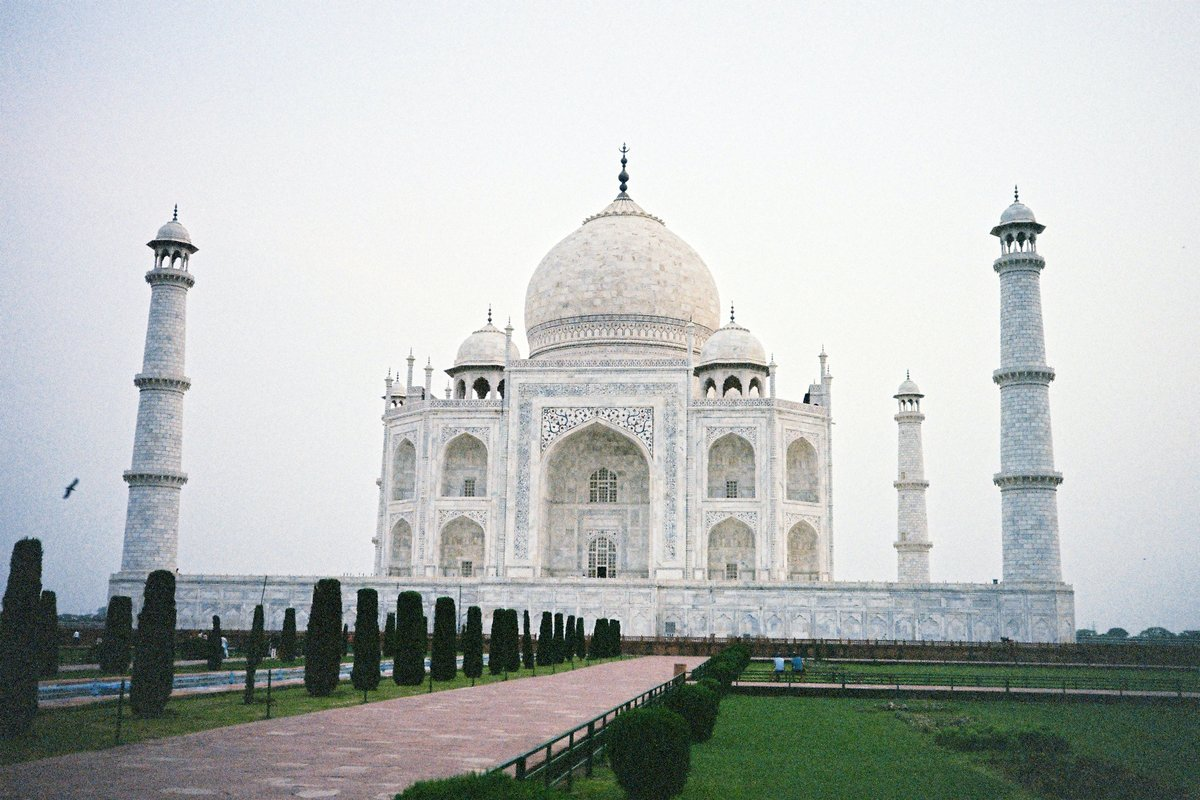
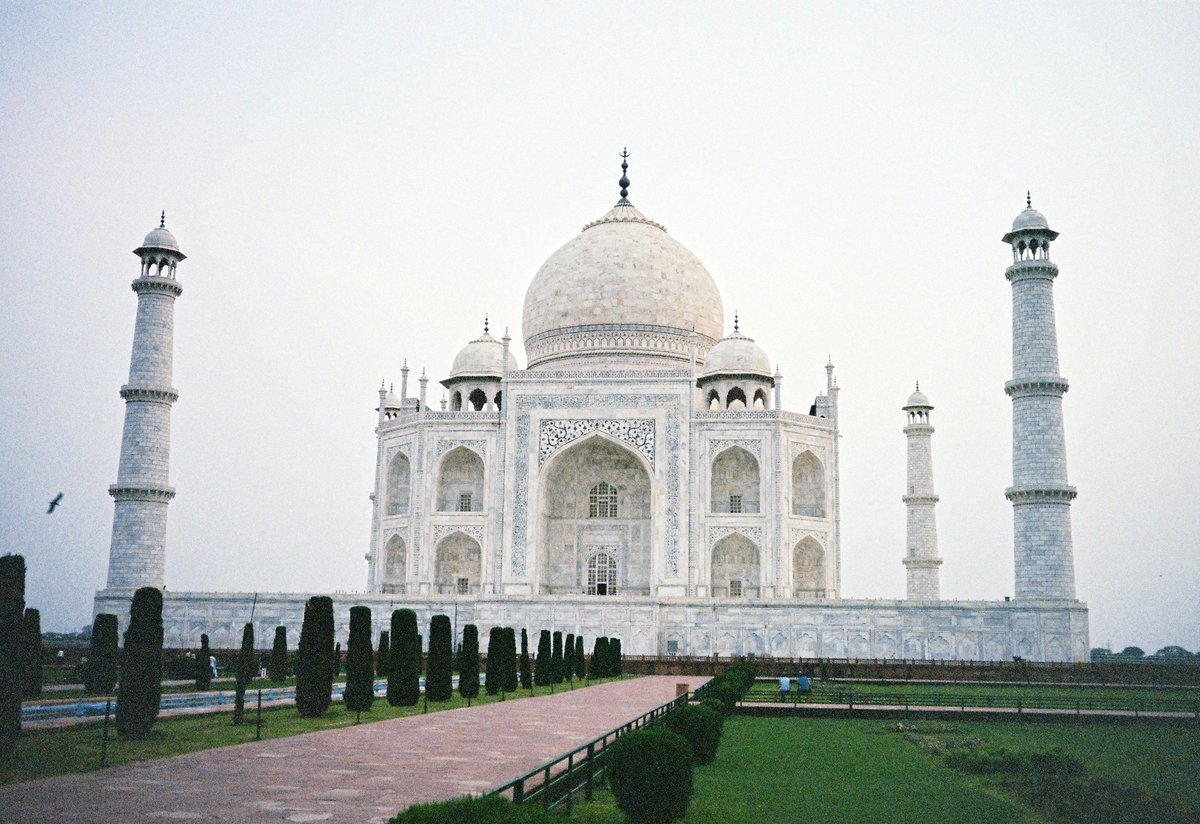
Align the India gallery rows
Re-crop india_05 to the same 1200x824 proportions as the other India frames so both columns line up.

diff --git a/gallery.html b/gallery.html
@@ -230,7 +230,7 @@
                     <img src="photos/india/india_01.JPG" width="1200" height="824" alt="India 1">
                 </div>
                 <div class="gallery-item">
-                    <img src="photos/india/india_05.JPG" width="1200" height="800" alt="India 5">
+                    <img src="photos/india/india_05.JPG" width="1200" height="824" alt="India 5">
                 </div>
                 <div class="gallery-item">
                     <img src="photos/india/india_02.JPG" width="1200" height="824" alt="India 2">
